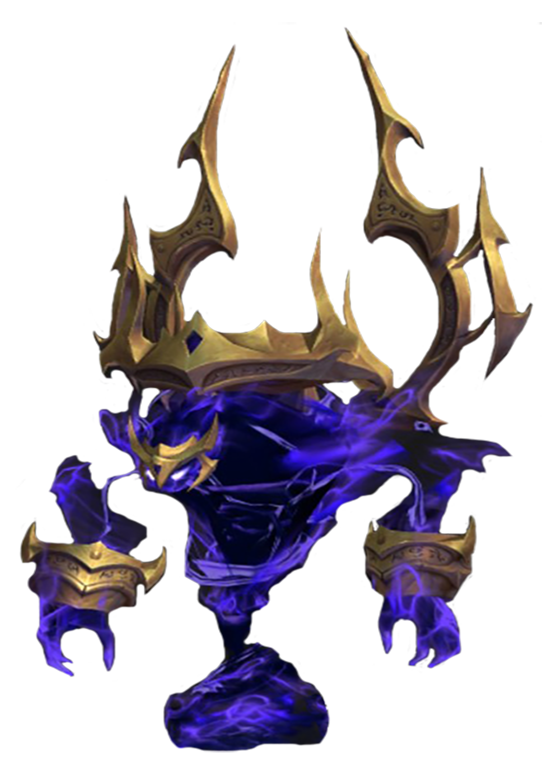
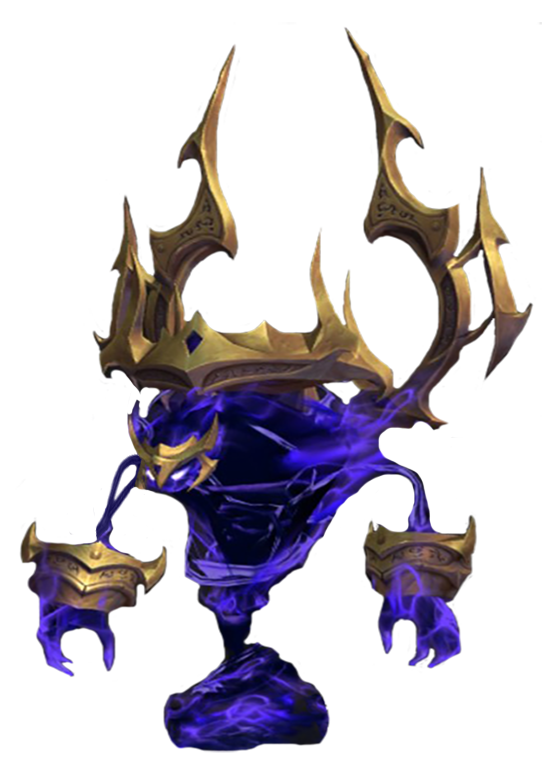
Добавил маунтов

Changed region(s): [[0.0919, 0.481, 0.2757, 0.7216], [0.6126, 0.5412, 0.9189, 0.7216], [0.582, 0.6614, 0.6126, 0.6915]]

diff --git a/README.md b/README.md
@@ -43,8 +43,8 @@
 В процессе (сколько готово):
 - Расы детальная стр: Орда: Орк, Магхар, Нежить, Таурены, Таурены Крутогорья, Земельники,
 Альянс: Земельники
-- 98 Двуручных топоров
-- 150 Летающих Маунтов
+- 105 Двуручных топоров
+- 170 Летающих Маунтов
 - 42 Наземных Маунтов
 - 129 Легендарной Брони
 - Рейдовые сеты:
@@ -56,7 +56,7 @@
 - тир 1-6 - хант
 - тир 1-13 - рога
 - тир 1-6 прист
-- тир 1-6 маг
+- тир 1-13 маг
 - Рейды
 - 76 плаща
 
